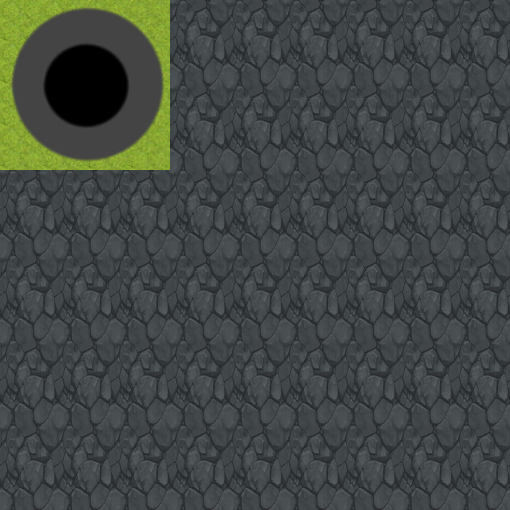
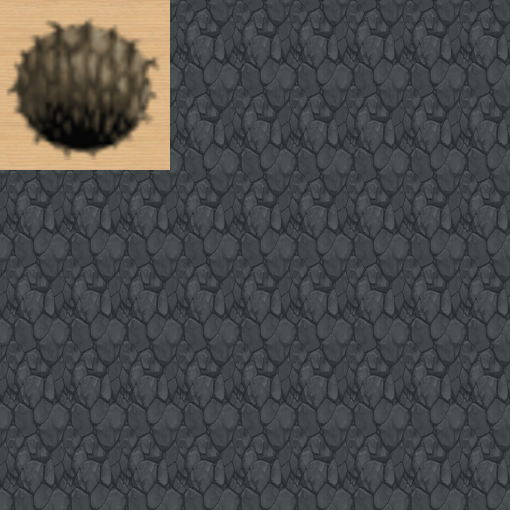
change floor

Changed region(s): [[0.0, 0.0, 0.3529, 0.3529]]

diff --git a/lib/Ray/sources/Model/Model.cpp b/lib/Ray/sources/Model/Model.cpp
@@ -1,4 +1,4 @@
-/*
+/*z
 ** EPITECH PROJECT, 2021
 ** Bomberman
 ** File description:
@@ -25,9 +25,9 @@ namespace RAY::Drawables::Drawables3D
 	             bool lonely,
 	             std::optional<std::pair<MaterialType, std::string>> texture,
 	             const RAY::Vector3 &scale,
+	             float rotationAngle,
 	             const RAY::Vector3 &position,
-	             const RAY::Vector3 &rotationAxis,
-	             float rotationAngle)
+	             const RAY::Vector3 &rotationAxis)
 		: ADrawable3D(position, WHITE),
 		  _model(_modelsCache.fetch(filename, lonely)),
 		  _rotationAxis(rotationAxis),
@@ -41,9 +41,9 @@ namespace RAY::Drawables::Drawables3D
 	Model::Model(const Mesh::AMesh &mesh,
 	             std::optional<std::pair<MaterialType, std::string>> texture,
 	             const RAY::Vector3 &scale,
+	             float rotationAngle,
 	             const RAY::Vector3 &position,
-	             const RAY::Vector3 &rotationAxis,
-	             float rotationAngle)
+	             const RAY::Vector3 &rotationAxis)
 		: ADrawable3D(position, WHITE),
 		  _model(std::make_shared<::Model>(LoadModelFromMesh(*mesh.getRaylibMesh()))),
 		  _rotationAxis(rotationAxis),

diff --git a/lib/Ray/sources/Model/Model.hpp b/lib/Ray/sources/Model/Model.hpp
@@ -31,18 +31,18 @@ namespace RAY::Drawables::Drawables3D {
 			Model(const std::string &filePath, bool lonely = false,
 			      std::optional<std::pair<MaterialType, std::string>> texture = std::nullopt,
 				  const RAY::Vector3 &scale = RAY::Vector3(1, 1, 1),
+				  float rotationAngle = 0,
 			      const RAY::Vector3 &position = {0, 0, 0},
-			      const RAY::Vector3 &rotationAxis = RAY::Vector3(0, 1, 0),
-			      float rotationAngle = 0);
+			      const RAY::Vector3 &rotationAxis = RAY::Vector3(0, 1, 0));
 
 			//! @brief Create an model, loading a file
 			//! @param mesh: mesh to load
 			Model(const Mesh::AMesh &mesh,
 			      std::optional<std::pair<MaterialType, std::string>> texture = std::nullopt,
 			      const RAY::Vector3 &scale = RAY::Vector3(1, 1, 1),
+			      float rotationAngle = 0,
 			      const RAY::Vector3 &position = {0, 0, 0},
-			      const RAY::Vector3 &rotationAxis = RAY::Vector3(0, 1, 0),
-			      float rotationAngle = 0);
+			      const RAY::Vector3 &rotationAxis = RAY::Vector3(0, 1, 0));
 
 			//! @brief A copy constructor
 			Model(const Model &model) = default;

diff --git a/sources/Map/Map.cpp b/sources/Map/Map.cpp
@@ -298,7 +298,7 @@ namespace BBM
 		            WAL::Callback<WAL::Entity &, const WAL::Entity &, CollisionComponent::CollidedAxis>(),
 		            &MapGenerator::holeCollide, Vector3f(0.25, 0.25, 0.25),Vector3f(0.75, 1.75, 0.75));
 		if (coords.y == 0)
-			holeEntity.addComponent<Drawable3DComponent, RAY3D::Model>(holeObj, false, std::make_pair(MAP_DIFFUSE, holePng));
+			holeEntity.addComponent<Drawable3DComponent, RAY3D::Model>(holeObj, false, std::make_pair(MAP_DIFFUSE, holePng), Vector3f(1,1,1), 180);
 		else
 			holeEntity.addComponent<Drawable3DComponent, RAY3D::Model>(secondFloorObj, false,
 			                                                           std::make_pair(MAP_DIFFUSE, secondFloorPng));

diff --git a/sources/Items/Bonus.cpp b/sources/Items/Bonus.cpp
@@ -3,6 +3,7 @@
 //
 
 #include <Component/Collision/CollisionComponent.hpp>
+#include <Component/Collision/CollisionComponent.hpp>
 #include <Component/Controllable/ControllableComponent.hpp>
 #include <Component/Bonus/PlayerBonusComponent.hpp>
 #include "Component/Movable/MovableComponent.hpp"
@@ -57,6 +58,7 @@ namespace BBM {
 
 	Bonus::BonusType Bonus::getRandomBonusType()
 	{
+		return (SPEEDUP);
 		static std::default_random_engine generator(time(nullptr));
 		std::map<BonusType, float> chanceValue = {
 			{NOTHING, 100.0f},
